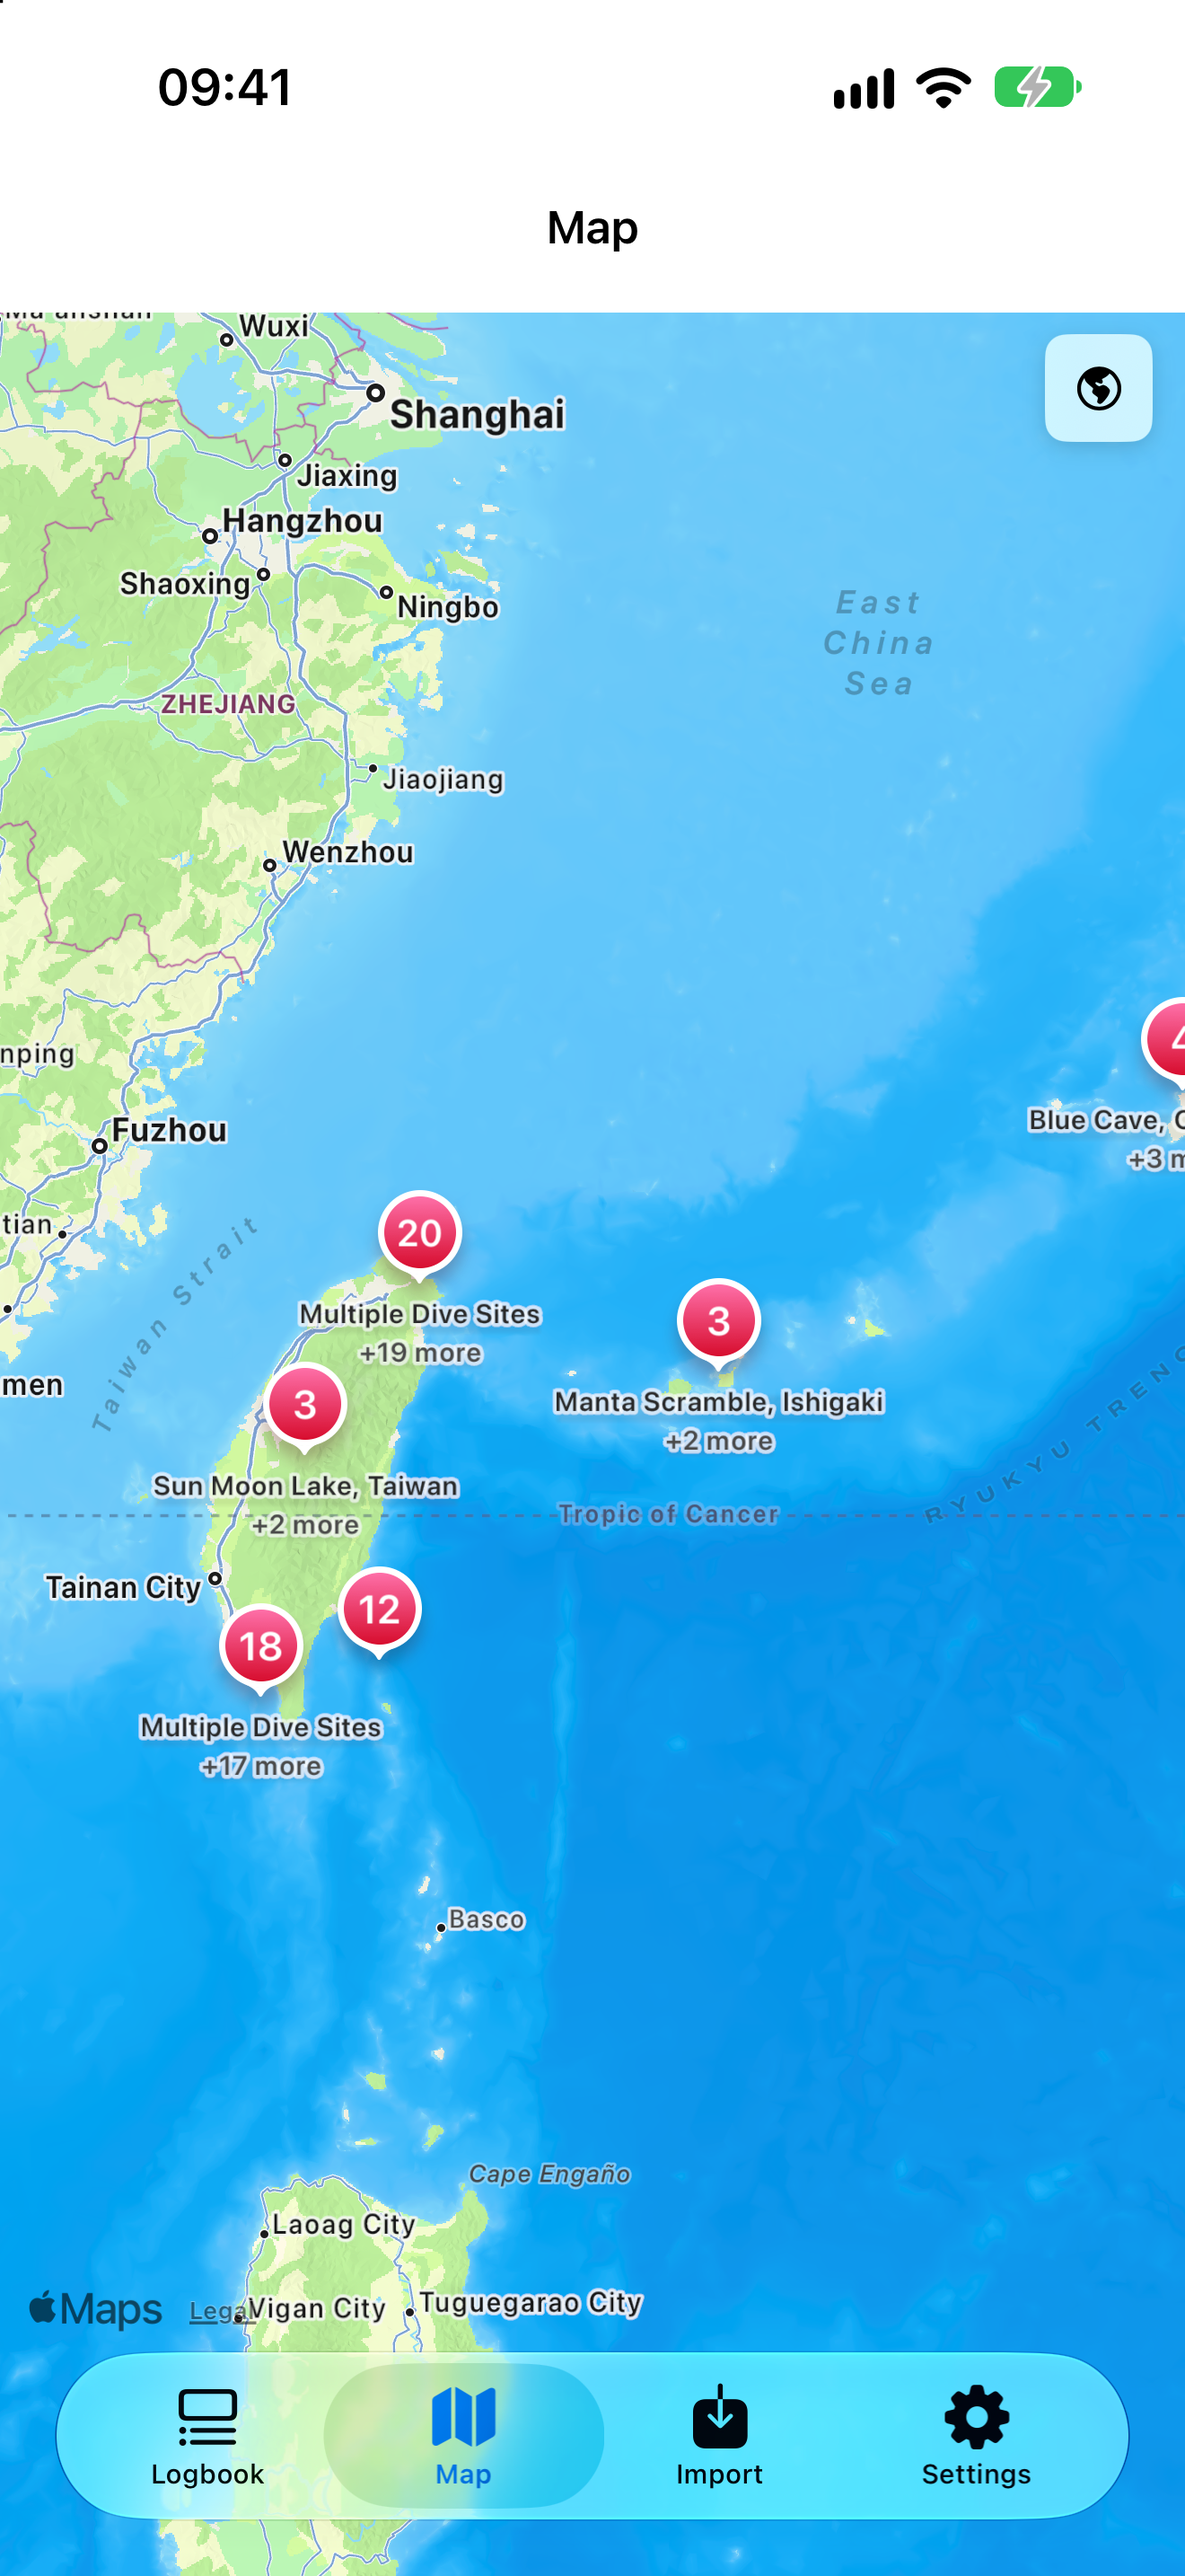
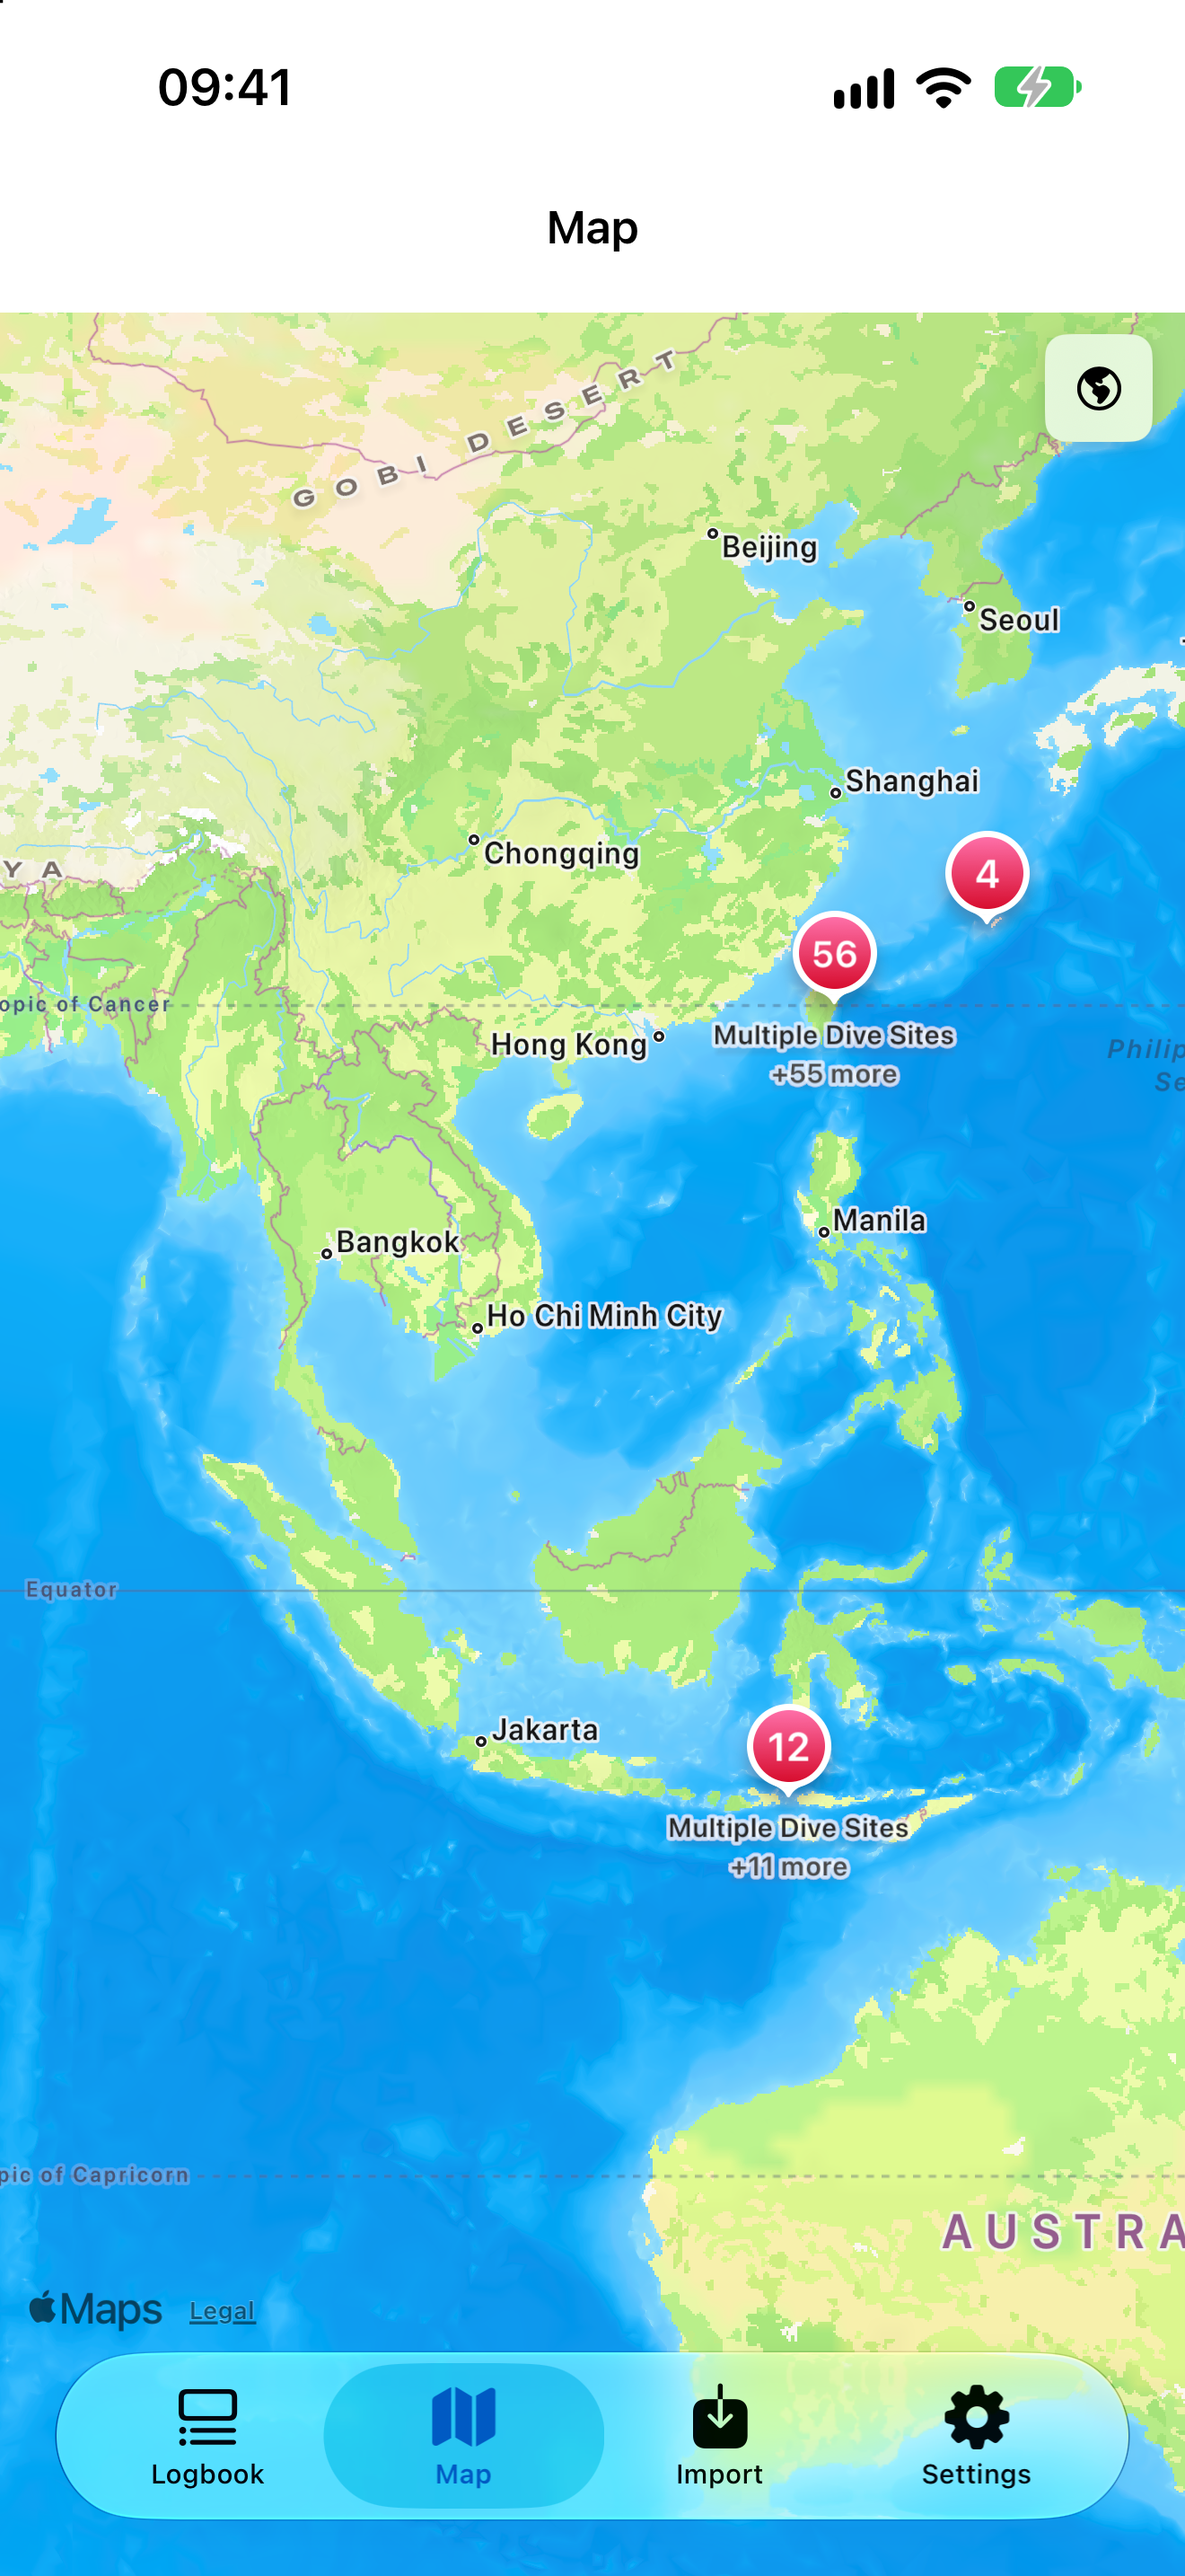
上架截圖 v1.4 重做：構圖比照 ASC v1.3，詳細頁改用 PM 真實潛水紀錄
- iPhone 1320×2868 三語各 6 張（含剖面拖曳後組織負荷、新增潛水）；Mac 1280×800 三語各 5 張
- 詳細頁：蘭嶼母雞岩外礁真實剖面（正式 store 唯讀複本，用完即刪）；「綠島石朗」為 CCR 測試檔改名，不採用
- 正式 store、audit store SHA-256 前後相同；SUBMISSION_CHECK_NEXT 更新

diff --git a/docs/SUBMISSION_CHECK_NEXT.md b/docs/SUBMISSION_CHECK_NEXT.md
@@ -5,7 +5,7 @@
 | 項目 | 狀態 | 驗證方式 |
 |---|---|---|
 | **TestFlight 覆蓋升級首次啟動不卡**（PM 11/04 實機：Xcode 安裝 v1.4 到 iPhone 16（既有 71 筆）後第一次啟動，整個畫面卡在日誌頁 10–20 秒，重開不再卡；模擬器全新安裝 0 筆、既有 105 筆皆未重現） | ✅ PM 2026-11-07 結案 | **結果（PM 11/07 實機）**：同一支 iPhone 先回到 App Store v1.3＋v1.3 時期資料 → TestFlight 安裝 1.4（5）Release 升級 → 第一次啟動無延遲、升級 OK ⇒ 11/04 卡頓非 Release 遷移所致（歸因於 Xcode 偵錯器／Debug 建置，未個別量測）。上傳：Xcode Organizer 11/07，PLA 更新同意後成功（iOS 與 macOS 1.4（5）皆 Uploaded to Apple；macOS 14:11）；警告僅 GoogleMobileAds／UserMessagingPlatform 缺 dSYM（第三方預編框架，只影響該 SDK 內當機符號化）。以下為原紀錄：**候選（皆未量測）**：① Xcode 偵錯器首次附掛；③ Xcode 裝的是 **Debug** 建置（DiveKit 等未最佳化，啟動時任何重活都比 Release 慢很多）；② v1.4 首次資料庫遷移——v1.3→v1.4 為 **lightweight 遷移**（`DiveLogSchema.swift:211`，三段皆 lightweight），71 筆一般為毫秒級，**可能性較低**（推論，總指揮 11/04）。**驗證**：iPhone 先留 App Store v1.3＋既有資料 → 不經 Xcode，用 TestFlight（Release）升級到 v1.4 → 第一次啟動計時、確認可點分頁。TestFlight 為 Release ⇒ 同時排除 ①③。**不卡** ⇒ 結案。**仍卡 ⇒ 先量測再提案，不先猜做法**：Release 實機用 Instruments Time Profiler（或 `os_signpost` 包住 `ModelContainer` 建立與首頁 `.task`）量一次，看卡在哪一段；量完才提案（若卡在遷移，再提「背景遷移＋顯示準備中」），PM 決定後再改 |
-| 上架截圖 v1.4（英／繁中／日） | ✅ 備妥，待 PM 上傳 ASC | iPhone 6.9 吋 1320×2868 各 5 張（列表、詳細、地圖、匯入、日曆）：`docs/screenshots/v1.4-appstore-iphone-6.9/`；Mac 1280×800 各 4 張（列表＋詳細、地圖、匯入、日曆）：`docs/screenshots/v1.4-appstore-mac-1280x800/`。資料＝稽核機 store 複本去掉測試列與 trimix 列、補剖面與細節欄位、潛點名稱與備註分三語（84 筆；產生腳本留 scratchpad，未入庫）。iPhone 用專用模擬器 `JD2-LB-Shots`（狀態列 9:41、`-DEBUG_forceHideAds YES`）；Mac 用 audit bundle＋淺色外觀，拍後 audit store 由備份還原、SHA-256 相同，正式 store SHA-256 前後相同。已知：繁中／日文「69h 35m」「min」單位未在地化（既有行為，未改）；匯入頁含廠牌名（App 本身畫面） |
+| 上架截圖 v1.4（英／繁中／日） | ✅ 備妥，待 PM 上傳 ASC | **PM 11/07 重做：構圖比照 ASC 上 v1.3 現行截圖**（唯讀查看；iPhone 6 張、Mac 5 張／語言，三語各自在地化）。iPhone 6.9 吋 1320×2868 各 6 張（列表、詳細＋剖面拖曳後組織負荷、地圖、匯入、日曆、新增潛水）：`docs/screenshots/v1.4-appstore-iphone-6.9/`；Mac 1280×800 各 5 張（列表＋詳細＋組織負荷、地圖、匯入、日曆、新增潛水）：`docs/screenshots/v1.4-appstore-mac-1280x800/`。**詳細頁用 PM 真實潛水紀錄**：蘭嶼母雞岩外礁（29.7 m／36 min／空氣，UDDF；取自 PM Mac 正式 store 的唯讀複本，用完即刪），拖曳到 25′26″（iPhone）／25′50″（Mac）＝快組織 6 格黃、免減壓 1′／2′；同潛旅另放玉女岩、母雞岩兩筆真實剖面。正式 store 另一筆「綠島石朗」查為 CCR 測試檔改名（裝置序號 01234567、水溫 4 °C）⇒ 不採用。其餘資料＝稽核機 store 複本去測試列與 trimix、補剖面（84 筆）。iPhone 用 `JD2-LB-Shots`；Mac 用 audit bundle＋淺色，拍後 audit store 還原 SHA-256 相同、正式 store SHA-256 前後相同。v1.3 Mac 日曆開著年月選擇器——該浮層單獨截窗時背景呈灰色方塊 ⇒ 改拍未開選擇器。已知：繁中／日文「69h 8m」「min」未在地化（既有行為）；匯入頁含廠牌名（App 本身畫面） |
 | macOS 匯入頁上架截圖重拍（多了 ATMOS FIT） | ✅ 結案 | PM 11/05 確認 OK（總指揮轉述） |
 | 新字串補 14 語＋審稿 | ✅ PM 2026-11-07 審核通過，26 鍵 `needs_review` → `translated`（391 條，值 0 變動） | 11/05：16 鍵補 14 語草稿（210 條 `needs_review`）；`+%lld more` 改依數量變形（18 語，Release 產物實測 hr 1／2／5／21 ⇒ one／few／other／one）；C 組 8 鍵維持 `needs_review`。重掃（非 `shouldTranslate=false`、缺語言者）只剩派工排除的 Sustained Ascent ×2、Developer Tools、AL100、符號鍵。審稿表 `docs/reports/R-2026-11-05-v1.4翻譯審稿對照表.md`；**PM 審完才改 `translated`** |
 | 版號 1.4（5） | ✅ | 6 組 build setting 全改（`project.pbxproj` `grep -c 'MARKETING_VERSION = 1.4'`＝6、`CURRENT_PROJECT_VERSION = 5`＝6）；Release iOS／macOS 產物 `defaults read` ⇒ `CFBundleShortVersionString`＝1.4、`CFBundleVersion`＝5 |
